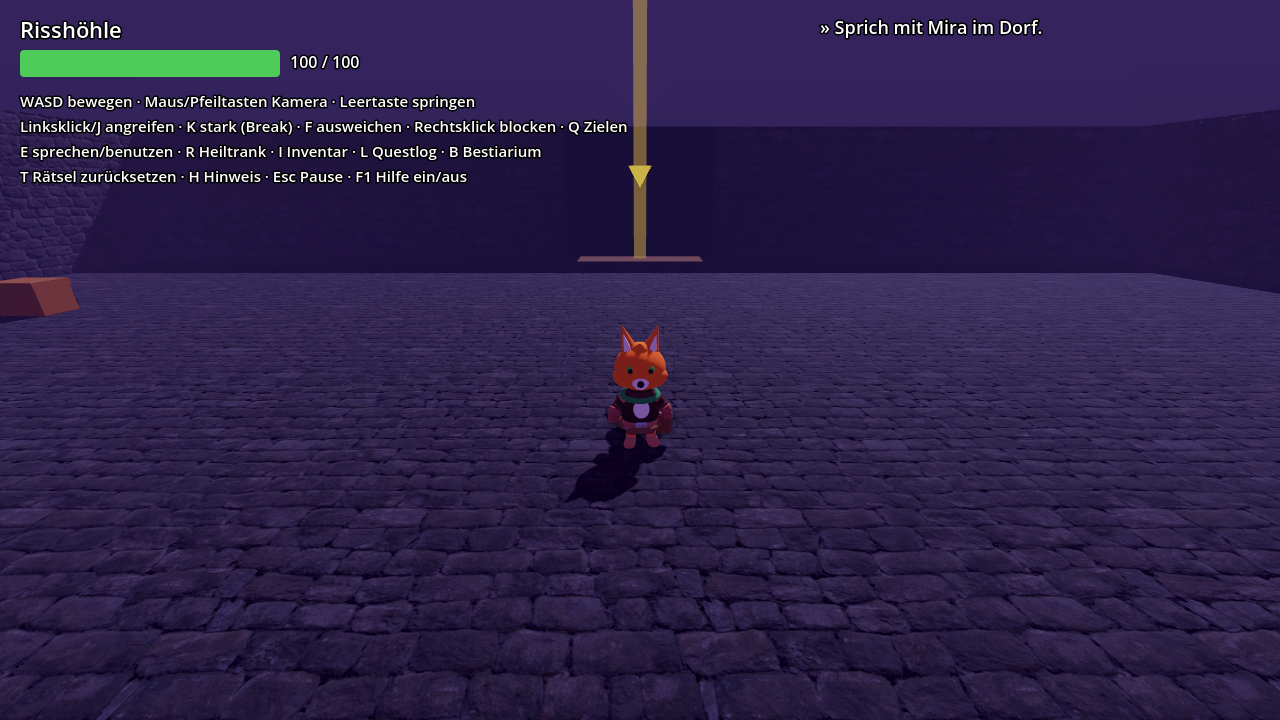
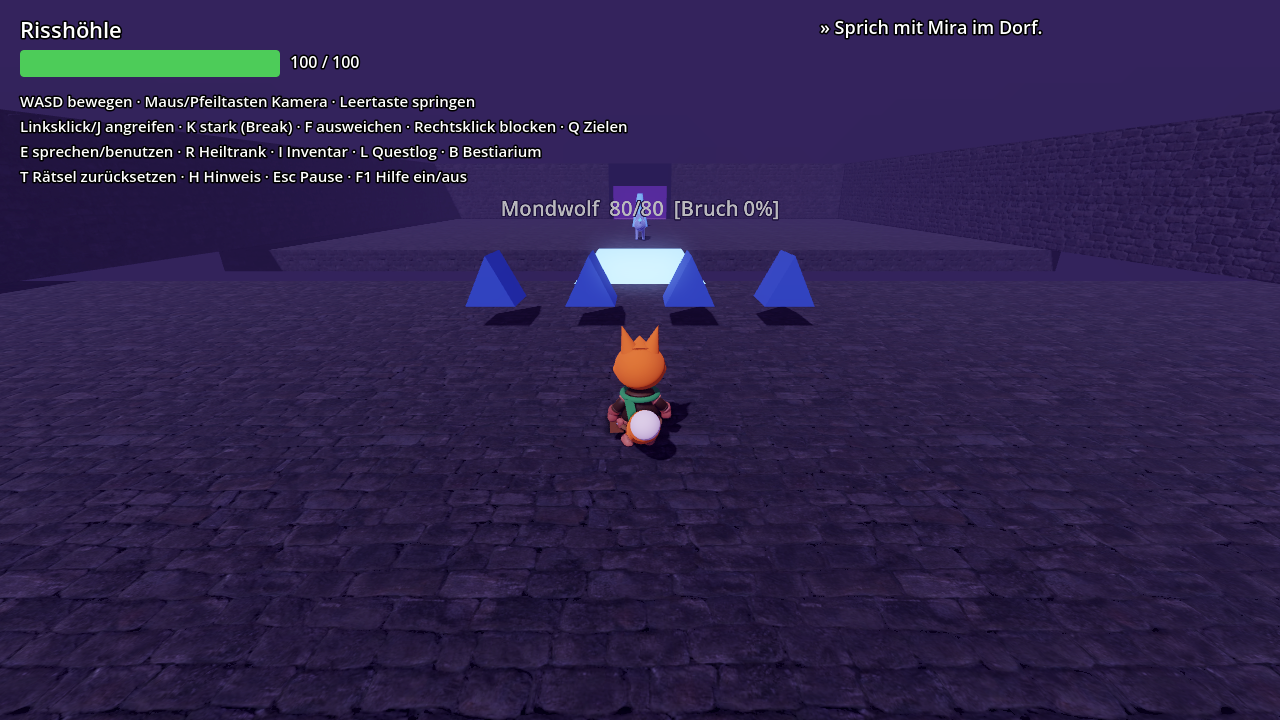
Graphics G03: procedural animated creatures for all enemies and bosses
Claude-Session: https://claude.ai/code/session_01D64FBPKosMPWYDNkmQT7wn

diff --git a/docs/MILESTONE_LOG.md b/docs/MILESTONE_LOG.md
@@ -466,3 +466,18 @@ Standing owner approval was recorded in `CLAUDE.md` (rule 8 update). The plan is
 - Conflict C-29 logged: chibi interim proportions versus the owner's target look.
 - Tests: `tests/unit/test_g02_characters.gd` (3 tests).
 - Regression: 178/178 tests plus restart checks: PASS.
+
+## G03 Enemies & bosses – PASSED
+- `scenes/world/creature_visual.gd`: procedural interim creatures following the enemy master sheet (dark bodies, emissive rift crystals and eyes). Archetypes:
+  - **imp:** Rissling, with large glowing eyes and a crystal crest
+  - **wolf:** Mondwolf with a blue crystal ridge, Dornenwolf with a green thorn ridge
+  - **golem:** Orun, Rostgolem, Kanalwächter, with rounded rock bodies, a glowing core, horn crystals and crystal clusters on the shoulders
+  - **queen:** a golem with a crystal crown and root tendrils
+  - **mushroom:** Pilzling, with a glowing-spotted cap
+  - **slime:** Kanalschleim, translucent with a glowing core and squash
+  - **crab:** Schleusenkrabbe
+  - **roots:** Wurzelkriecher
+  - **dummy:** training dummy
+- Animation from the enemy state: idle bob, walk cycle, wind-up rear-back, strike lunge, dazed wobble while broken. Hit and wind-up tints still work. Defeat shows a short burst of rift light.
+- Rift and crystal glow is toned down so it keeps its colour instead of blowing out to white.
+- Tests: `tests/unit/test_g03_creatures.gd` (3 tests). Regression: 181/181 tests plus restart checks: PASS.

diff --git a/CLAUDE.md b/CLAUDE.md
@@ -3,7 +3,7 @@
 PROJECT: ZOTIK – Die Splitter der Welten
 ENGINE TARGET: Godot 4.7
 CURRENT PHASE: Graphics pass + Android (owner request 2026-10-02, see docs/GRAPHICS_PLAN.md)
-CURRENT MILESTONE: G02_ANIMATED_CHARACTERS
+CURRENT MILESTONE: G03_ENEMIES_BOSSES
 STATUS: Phase 1 PASSED (M00–M15); Phase 2 PASSED (E00–E08); Phase 3 PASSED (V00–V06)
 
 ## Mandatory workflow
